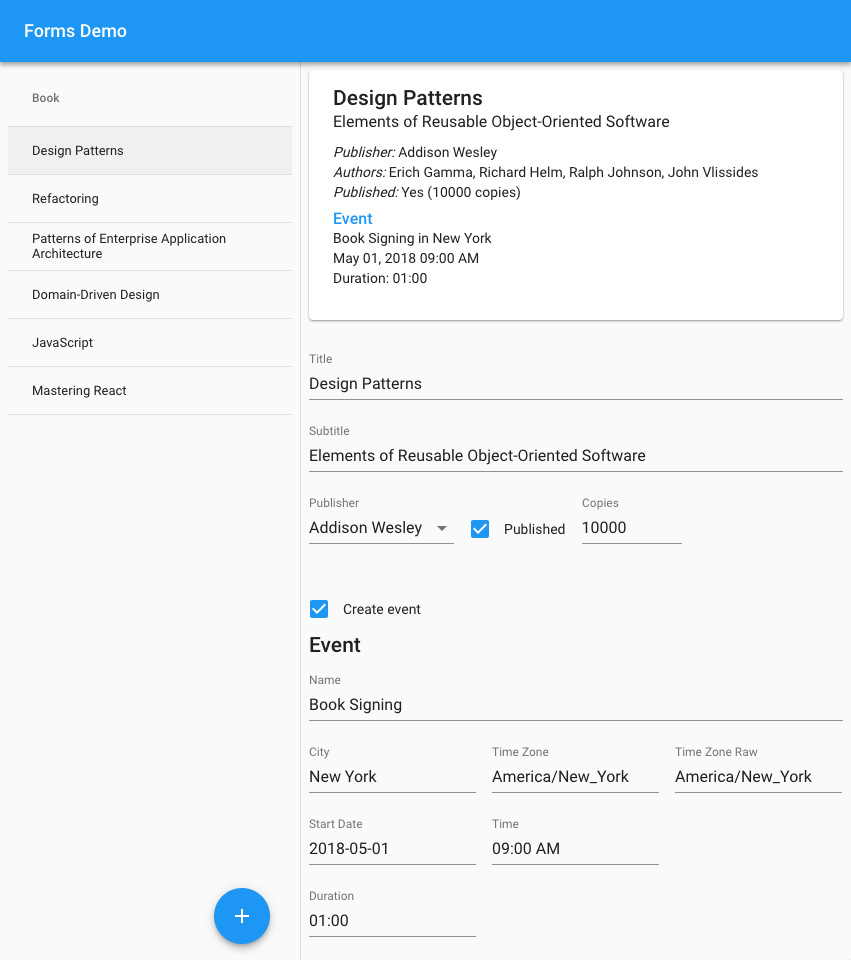
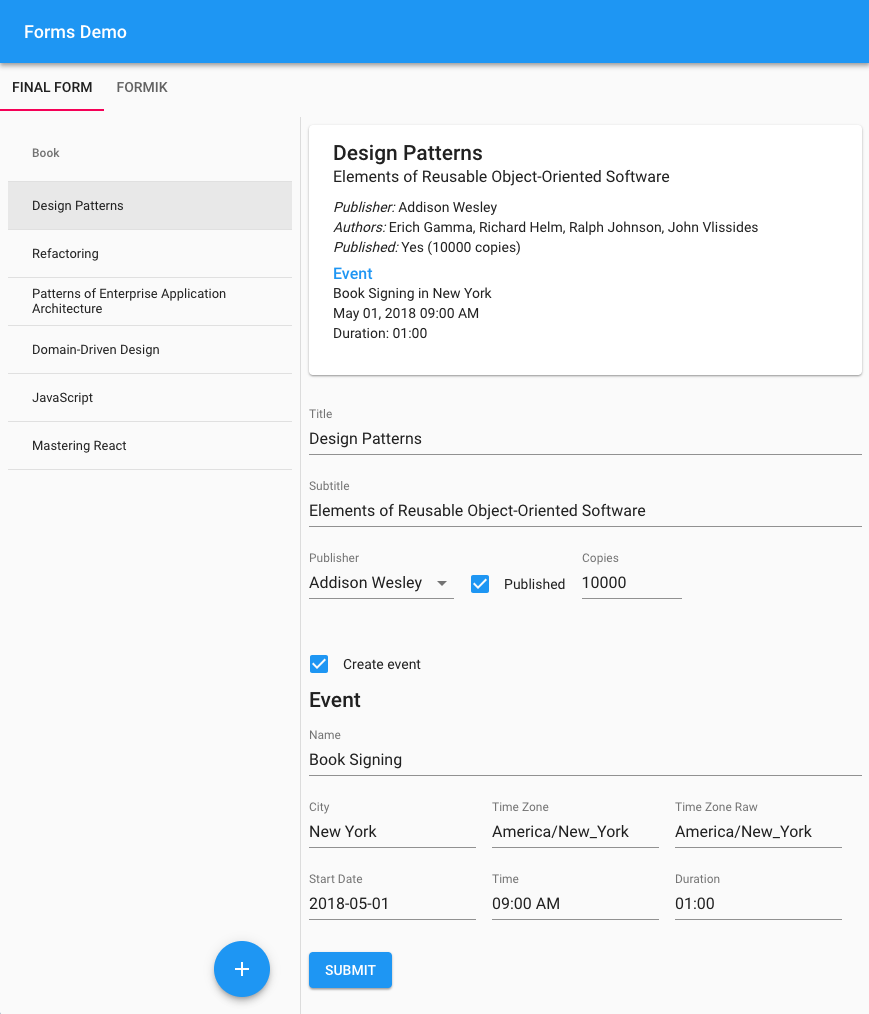
Added navbar and Formik page

diff --git a/src/features/formik-page/formik-page.js b/src/features/formik-page/formik-page.js
@@ -1,0 +1,76 @@
+import React from 'react';
+import { withStyles } from '@material-ui/core/styles';
+import { inject, observer } from 'mobx-react';
+import {
+    BookList,
+    BookView,
+    FloatingAddButton,
+    FullHeightHorizontalContainer,
+    PageLayout,
+    ScrollingContainer,
+    VerticalDivider
+} from '../../components';
+import { BookForm } from './book-form';
+
+const styles = {
+    master: {
+        position: 'relative',
+        display: 'flex',
+        flexDirection: 'column',
+        width: 300
+    }
+};
+
+const decorate = withStyles(styles);
+
+export const FormikPage = inject('rootStore')(
+    decorate(
+        observer(
+            class extends React.Component {
+                componentDidMount() {
+                    this.handleAddBook();
+                }
+
+                render() {
+                    const { classes } = this.props;
+
+                    return (
+                        <PageLayout>
+                            <FullHeightHorizontalContainer>
+                                <div className={classes.master}>
+                                    <ScrollingContainer>
+                                        <BookList
+                                            onSelectBook={this.handleSelectBook}
+                                        />
+                                    </ScrollingContainer>
+                                    <FloatingAddButton
+                                        onClick={this.handleAddBook}
+                                    />
+                                </div>
+                                <VerticalDivider />
+                                <ScrollingContainer>
+                                    <BookView />
+                                    <BookForm />
+                                </ScrollingContainer>
+                            </FullHeightHorizontalContainer>
+                        </PageLayout>
+                    );
+                }
+
+                handleAddBook = () => {
+                    const {
+                        rootStore: { bookStore }
+                    } = this.props;
+                    bookStore.editNewBook();
+                };
+
+                handleSelectBook = book => {
+                    const {
+                        rootStore: { bookStore }
+                    } = this.props;
+                    bookStore.selectBook(book);
+                };
+            }
+        )
+    )
+);

diff --git a/src/components/page-layout/navbar.js b/src/components/page-layout/navbar.js
@@ -1,0 +1,59 @@
+import React from 'react';
+import { withStyles } from '@material-ui/core/styles';
+import Tab from '@material-ui/core/Tab';
+import Tabs from '@material-ui/core/Tabs';
+import { inject, observer } from 'mobx-react';
+import PropTypes from 'prop-types';
+
+const styles = {
+    root: {
+        flex: '0 0 54px'
+    }
+};
+
+const decorate = withStyles(styles);
+
+export const NavBar = inject('rootStore')(
+    decorate(
+        observer(
+            class extends React.Component {
+                static propTypes = {
+                    rootStore: PropTypes.object.isRequired
+                };
+
+                render() {
+                    const { classes, rootStore } = this.props;
+                    const { routeName } = rootStore.routerStore.routerState;
+                    const tab = this.routeToTab(routeName);
+
+                    return (
+                        <div className={classes.root}>
+                            <Tabs value={tab} onChange={this.onTabChange}>
+                                <Tab label="Final Form" />
+                                <Tab label="Formik" />
+                            </Tabs>
+                        </div>
+                    );
+                }
+
+                onTabChange = (event, value) => {
+                    const { rootStore } = this.props;
+                    rootStore.routerStore.goTo(this.tab2route(value));
+                };
+
+                routeToTab(route) {
+                    const map = {
+                        finalForm: 0,
+                        formik: 1
+                    };
+                    return map[route];
+                }
+
+                tab2route(tab) {
+                    const routes = ['finalForm', 'formik'];
+                    return routes[tab];
+                }
+            }
+        )
+    )
+);

diff --git a/src/features/formik-page/book-form.js b/src/features/formik-page/book-form.js
@@ -1,0 +1,32 @@
+import React from 'react';
+import { withStyles } from '@material-ui/core/styles';
+import { inject, observer } from 'mobx-react';
+
+const styles = theme => ({
+    root: {
+        marginTop: theme.spacing.unit * 2
+    }
+});
+
+const decorate = withStyles(styles);
+
+export const BookForm = inject('rootStore')(
+    decorate(
+        observer(
+            class extends React.Component {
+                render() {
+                    const {
+                        classes,
+                        rootStore: { bookStore }
+                    } = this.props;
+
+                    const bookTitle = bookStore.editedBook
+                        ? bookStore.editedBook.title
+                        : {};
+
+                    return <div className={classes.root}>{bookTitle}</div>;
+                }
+            }
+        )
+    )
+);

diff --git a/src/components/page-layout/page-layout.js b/src/components/page-layout/page-layout.js
@@ -1,6 +1,7 @@
 import React from 'react';
 import { FullHeightVerticalContainer } from '../basics/containers';
 import { Header } from './header';
+import { NavBar } from './navbar';
 
 export class PageLayout extends React.Component {
     render() {
@@ -9,6 +10,7 @@ export class PageLayout extends React.Component {
         return (
             <FullHeightVerticalContainer>
                 <Header>Forms Demo</Header>
+                <NavBar />
                 {children}
             </FullHeightVerticalContainer>
         );

diff --git a/src/shell.js b/src/shell.js
@@ -2,7 +2,7 @@ import React from 'react';
 import { withStyles } from '@material-ui/core/styles';
 import { inject } from 'mobx-react';
 import { RouterView } from 'mobx-state-router';
-import { FinalFormPage, NotFoundPage } from './features';
+import { FinalFormPage, FormikPage, NotFoundPage } from './features';
 
 const styles = theme => ({
     '@global': {
@@ -43,6 +43,7 @@ const styles = theme => ({
 
 const viewMap = {
     finalForm: <FinalFormPage />,
+    formik: <FormikPage />,
     notFound: <NotFoundPage />
 };
 

diff --git a/src/stores/routes.js b/src/stores/routes.js
@@ -6,5 +6,6 @@
 //     /items/:id
 export const routes = [
     { name: 'finalForm', pattern: '/' },
+    { name: 'formik', pattern: '/formik' },
     { name: 'notFound', pattern: '/not-found' }
 ];

diff --git a/src/features/index.js b/src/features/index.js
@@ -1,2 +1,3 @@
 export { FinalFormPage } from './final-form-page/final-form-page';
+export { FormikPage } from './formik-page/formik-page';
 export { NotFoundPage } from './not-found-page';
